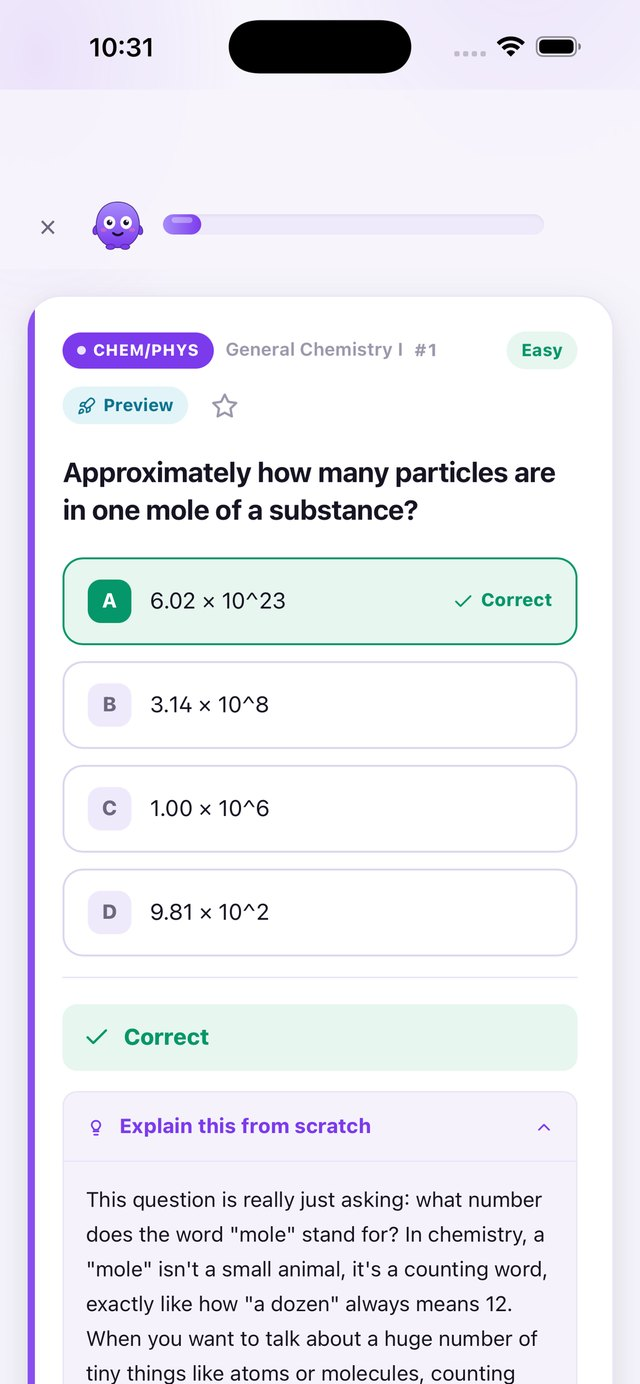
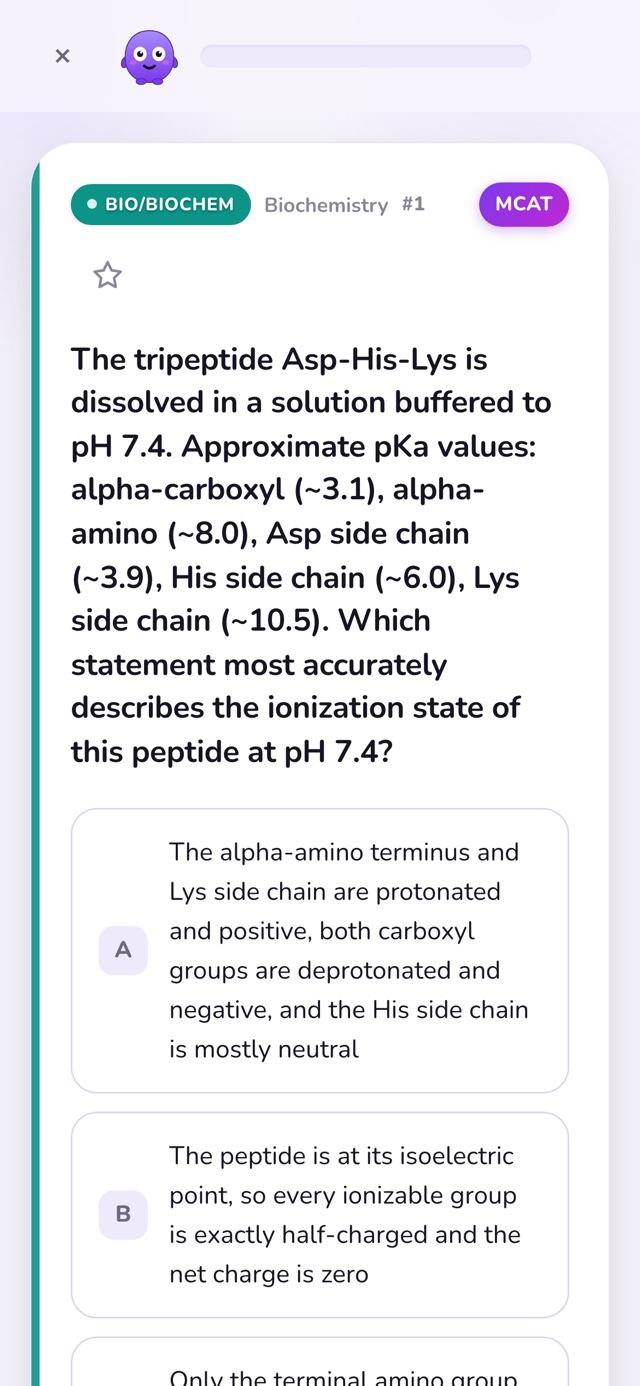
Stop selling the app with its most basic question
The one product screenshot a visitor studies showed an Easy, Preview-tagged
General Chemistry I item - how many particles are in one mole - whose
explanation opens by clarifying that a mole is not a small animal but a
counting word, like a dozen meaning 12.

A pre-med weighing UWorld reads that and concludes RampUp is remedial. The bank
holds 152 MCAT-tier questions. It now shows one: tripeptide ionization state at
pH 7.4 with five pKa values, tagged MCAT, captured from the current build.

Reaching it required the Skip button added earlier tonight - the old capture
could not get past the primer cards either, which is the same wall a real user
hit. The remaining four screenshots still date from Jul 3 and predate every UI
change since.

diff --git a/index.html b/index.html
@@ -293,7 +293,7 @@
       </ul>
     </div>
     <div class="art">
-      <div class="phone"><img src="assets/3-question.jpg" alt="A RampUp practice question with an explanation" /></div>
+      <div class="phone"><img src="assets/3-question.jpg" alt="An MCAT-level RampUp practice question on peptide ionization state" /></div>
     </div>
   </div>
 </section>
@@ -309,7 +309,7 @@
   <div class="shots">
     <div class="shot rv"><div class="phone"><img src="assets/1-onboarding.jpg" alt="Onboarding: what year are you in" /></div><div class="cap">Meets you where you are<span>Tuned to your coursework</span></div></div>
     <div class="shot rv"><div class="phone"><img src="assets/2-path.jpg" alt="The learning path" /></div><div class="cap">Climb the path<span>Unlock nodes, earn gold</span></div></div>
-    <div class="shot rv"><div class="phone"><img src="assets/3-question.jpg" alt="Answering a question" /></div><div class="cap">Learn every miss<span>Explain-from-scratch on tap</span></div></div>
+    <div class="shot rv"><div class="phone"><img src="assets/3-question.jpg" alt="An MCAT-level RampUp practice question" /></div><div class="cap">Learn every miss<span>Explain-from-scratch on tap</span></div></div>
     <div class="shot rv"><div class="phone"><img src="assets/4-summary.jpg" alt="Session celebration screen" /></div><div class="cap">Celebrate the win<span>XP, accuracy, best combo</span></div></div>
     <div class="shot rv"><div class="phone"><img src="assets/5-awards.jpg" alt="Achievements shelf" /></div><div class="cap">Collect achievements<span>16 badges to chase</span></div></div>
   </div>
